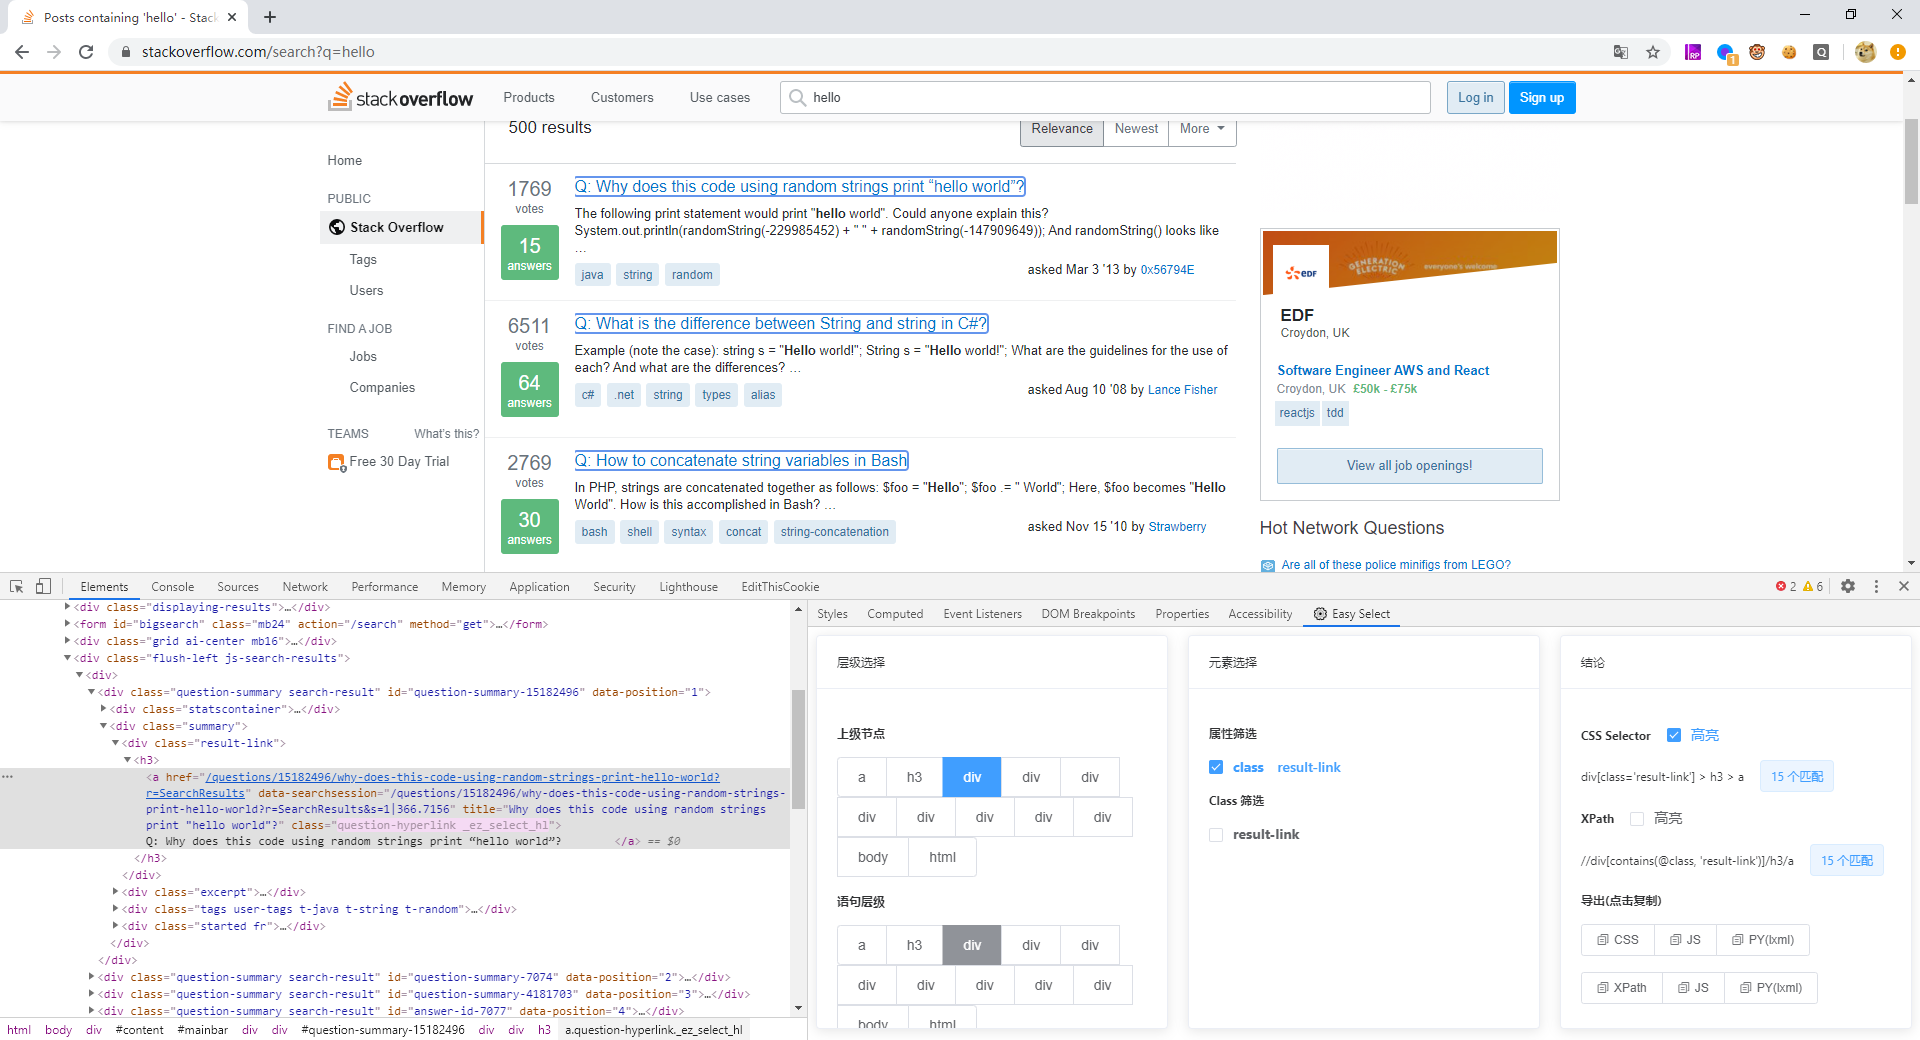
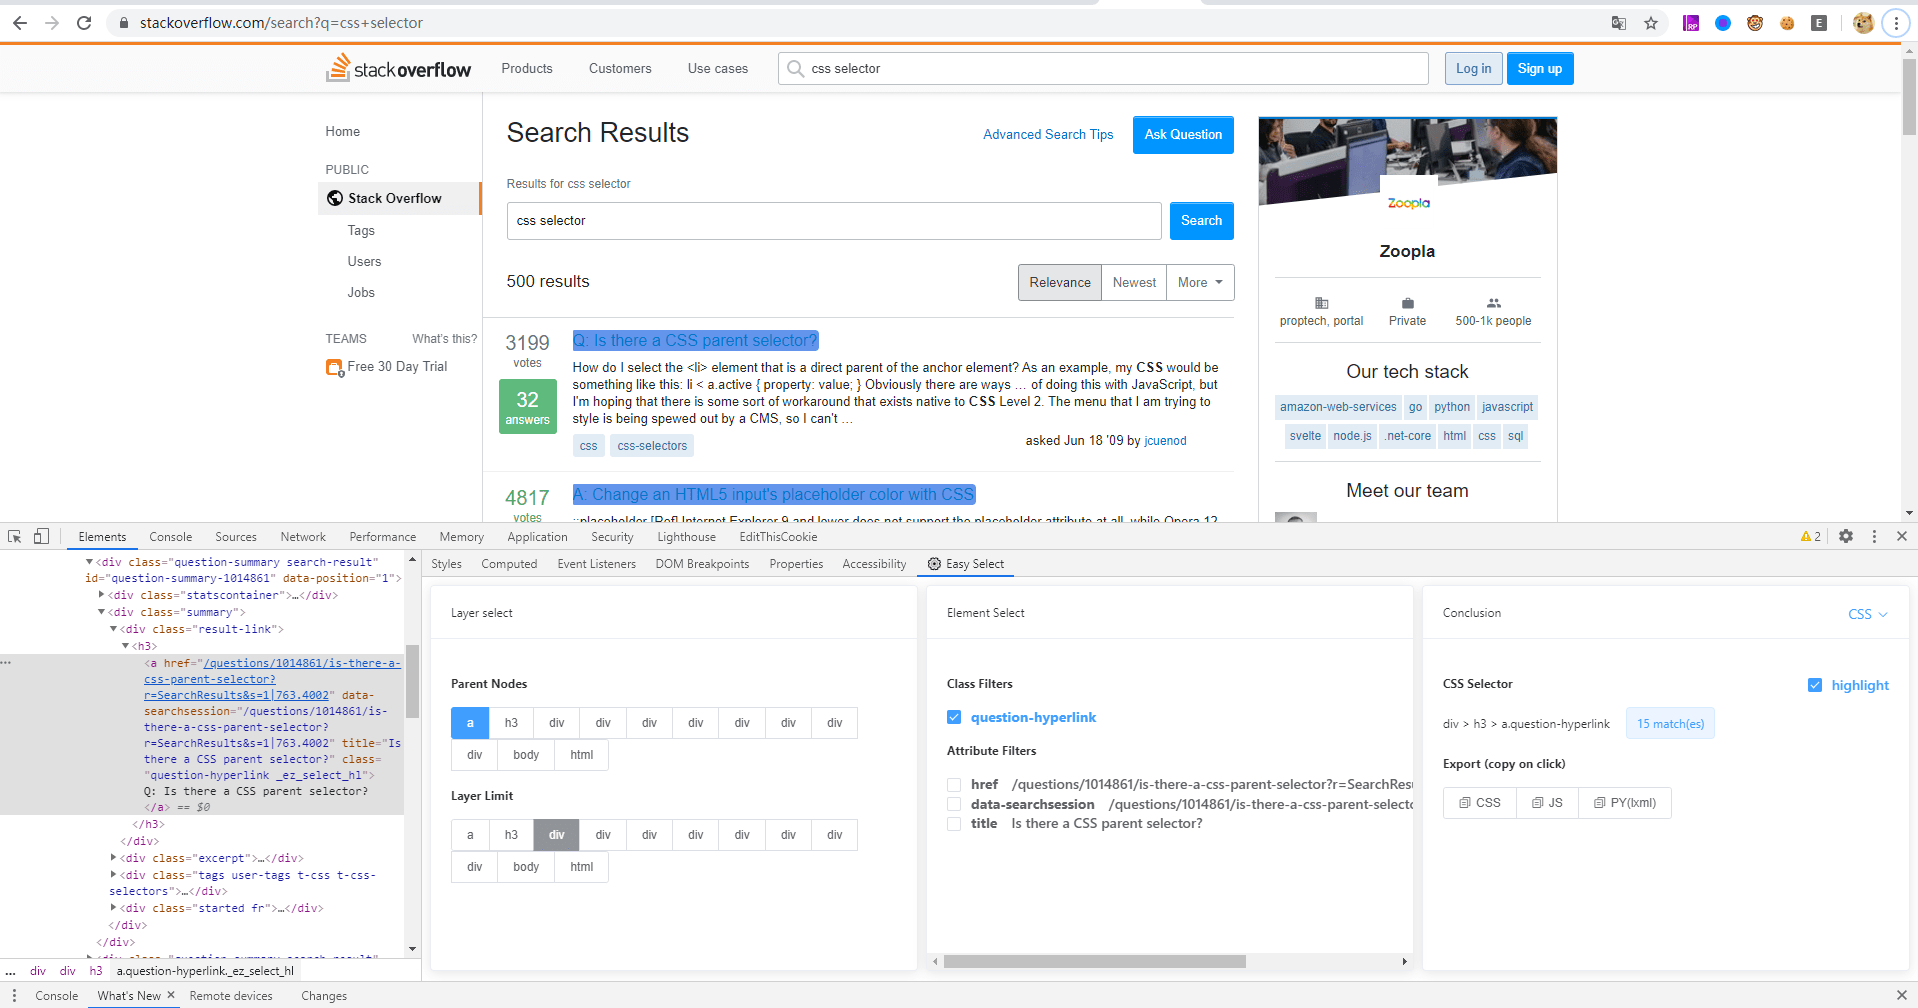
update

diff --git a/README_CN.md b/README_CN.md
@@ -2,6 +2,8 @@
 
 ![](misc/example.png)
 
+![](misc/example2.png)
+
 一个Chrome扩展，让你根据页面元素快速获取**可读可维护**的 CSS 选择器。
 
 ### 为什么不用浏览器自带的 "Copy selector"?

diff --git a/README.md b/README.md
@@ -2,6 +2,8 @@
 
 ![](misc/example.png)
 
+![](misc/example2.png)
+
 A chrome extension, let you get **readable & maintainable** css selector from elements.
 
 [中文文档](README_CN.md)
